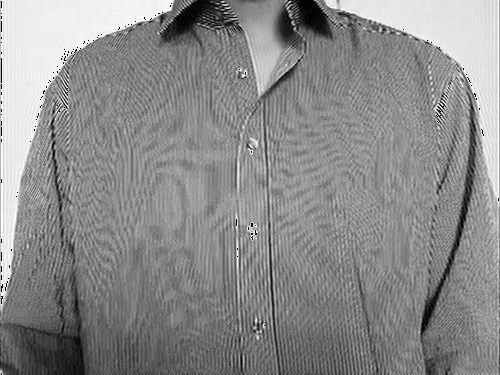
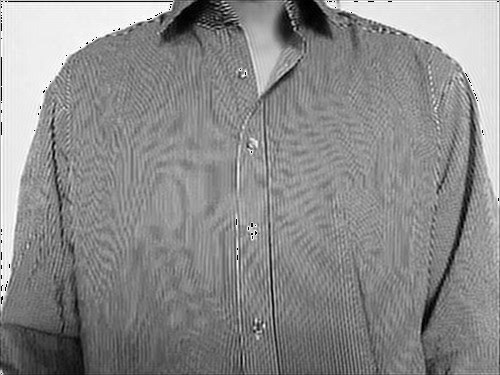
update

diff --git a/Lista 1/Q4/q4.py b/Lista 1/Q4/q4.py
@@ -27,7 +27,10 @@ magnitude_spectrum = 20*np.log(np.abs(fshift))
 cv2.imwrite('padded_magnitude.png', magnitude_spectrum)
 # cv2.imwrite('padded_magnitude.png', np.abs(fshift))
 
-filtered_mag = butterworth_lowpass(fshift, 1, 20)
+n = 1
+d = 20
+
+filtered_mag = butterworth_lowpass(fshift, n, d)
 magnitude_spectrum = np.copy(filtered_mag)
 magnitude_spectrum[magnitude_spectrum!=0] = 20*np.log(np.abs(filtered_mag[filtered_mag!=0]))
 cv2.imwrite('filtered_magnitude.png', np.abs(magnitude_spectrum))
@@ -35,7 +38,32 @@ filtered_f = np.fft.ifftshift(filtered_mag)
 filtered_img = np.fft.ifft2(filtered_f)
 filtered_img = np.abs(filtered_img)
 filtered_img = filtered_img.astype(np.uint8)
-cv2.imwrite('padded_filtered.png', filtered_img[:img.shape[0], :img.shape[1]])
+cv2.imwrite('filtered_n{}_{}.png'.format(n, d), filtered_img[:img.shape[0], :img.shape[1]])
+
+d = 80
+filtered_mag = butterworth_lowpass(fshift, n, d)
+filtered_f = np.fft.ifftshift(filtered_mag)
+filtered_img = np.fft.ifft2(filtered_f)
+filtered_img = np.abs(filtered_img)
+filtered_img = filtered_img.astype(np.uint8)
+cv2.imwrite('filtered_n{}_{}.png'.format(n, d), filtered_img[:img.shape[0], :img.shape[1]])
+
+n = 20
+d = 20
+filtered_mag = butterworth_lowpass(fshift, n, d)
+filtered_f = np.fft.ifftshift(filtered_mag)
+filtered_img = np.fft.ifft2(filtered_f)
+filtered_img = np.abs(filtered_img)
+filtered_img = filtered_img.astype(np.uint8)
+cv2.imwrite('filtered_n{}_{}.png'.format(n, d), filtered_img[:img.shape[0], :img.shape[1]])
+
+d = 80
+filtered_mag = butterworth_lowpass(fshift, n, d)
+filtered_f = np.fft.ifftshift(filtered_mag)
+filtered_img = np.fft.ifft2(filtered_f)
+filtered_img = np.abs(filtered_img)
+filtered_img = filtered_img.astype(np.uint8)
+cv2.imwrite('filtered_n{}_{}.png'.format(n, d), filtered_img[:img.shape[0], :img.shape[1]])
 
 # f = np.fft.ifftshift(fshift)
 # original_img = np.fft.ifft2(f)

diff --git a/Lista 1/Q6/q6.py b/Lista 1/Q6/q6.py
@@ -1,8 +1,22 @@
 import cv2
 import numpy as np
+from math import sqrt
 
 # def notch_filter():
 
+def distance(u, v, p, q):
+    return sqrt((u - p/2)**2 + (v - q/2)**2)
+
+def butterworth_lowpass(mag_img, order, cutoff):
+    bfilter =  np.zeros(mag_img.shape, np.float64)
+    for l in range(mag_img.shape[0]):
+        for c in range(mag_img.shape[1]):
+            bfilter[l][c] = 1/(1+((distance(l+1,c+1,mag_img.shape[0],mag_img.shape[1])/cutoff)**(2*order)))
+    # for l in bfilter:
+    #     print(l)
+    cv2.imwrite('filter.png', np.abs(20*np.log(np.abs(bfilter))))
+    filtered_mag = np.multiply(mag_img, bfilter)
+    return filtered_mag
 
 img = cv2.imread('camisa.jpg', 0)
 img = img.astype(np.int64)
@@ -15,11 +29,18 @@ magnitude_spectrum = 20*np.log(np.abs(fshift))
 cv2.imwrite('magnitude.png', magnitude_spectrum)
 
 # fshift[fshift.shape[0]/2 - 3:fshift.shape[0]/2 + 3, :] = 0
-fshift[225:525, :230] = 0
-fshift[225:525, 770:] = 0
+
+# fshift[fshift.shape[0]//2 - 3:fshift.shape[0]//2 + 3, :fshift.shape[1]//2 - 5] = 0
+# fshift[fshift.shape[0]//2 - 3:fshift.shape[0]//2 + 3, fshift.shape[1]//2 + 5:] = 0
+
+# fshift[225:525, :230] = 0
+# fshift[225:525, 770:] = 0
+
+fshift = butterworth_lowpass(fshift, 20, 270)
+
 magnitude_spectrum = np.copy(fshift)
 magnitude_spectrum[magnitude_spectrum!=0] = 20*np.log(np.abs(fshift[fshift!=0]))
-cv2.imwrite('filtered_magnitude*.png', np.abs(magnitude_spectrum))
+cv2.imwrite('filtered_magnitude.png', np.abs(magnitude_spectrum))
 
 filtered_f = np.fft.ifftshift(fshift)
 filtered_img = np.fft.ifft2(filtered_f)
